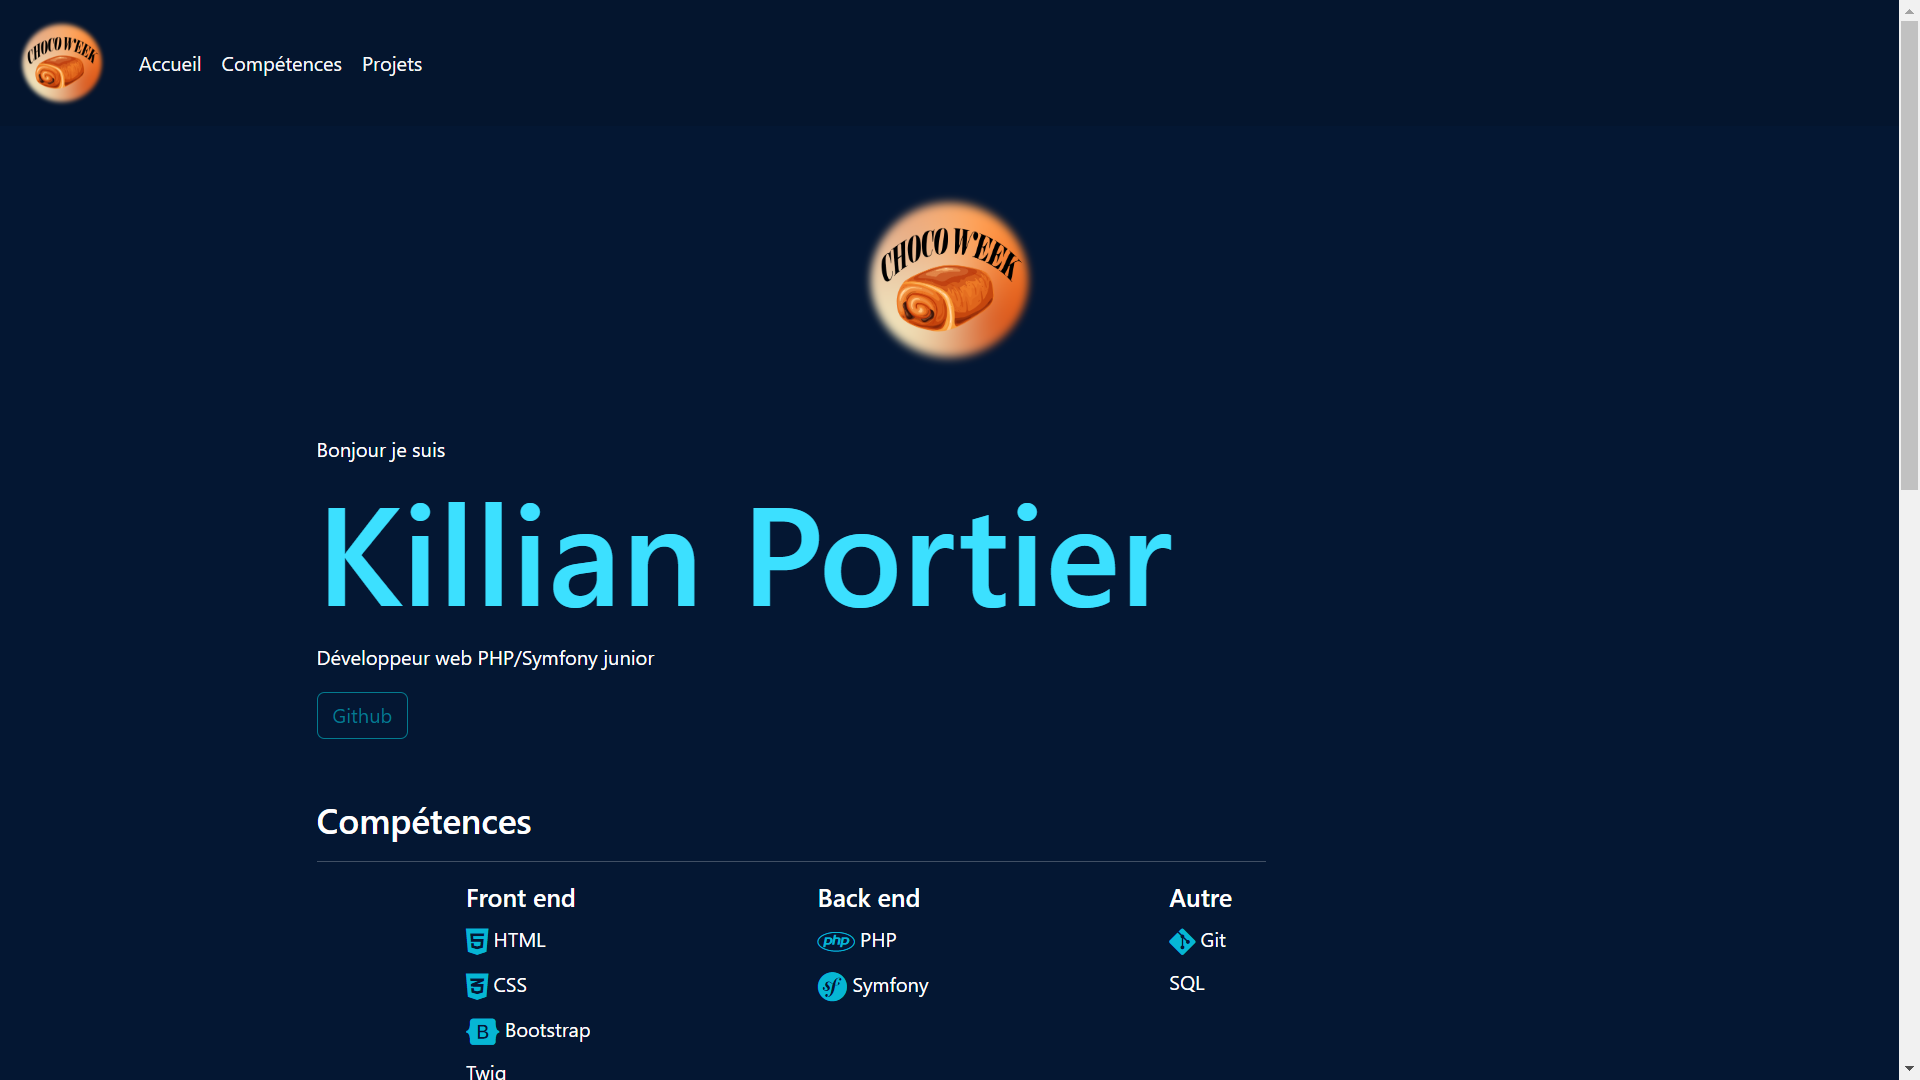
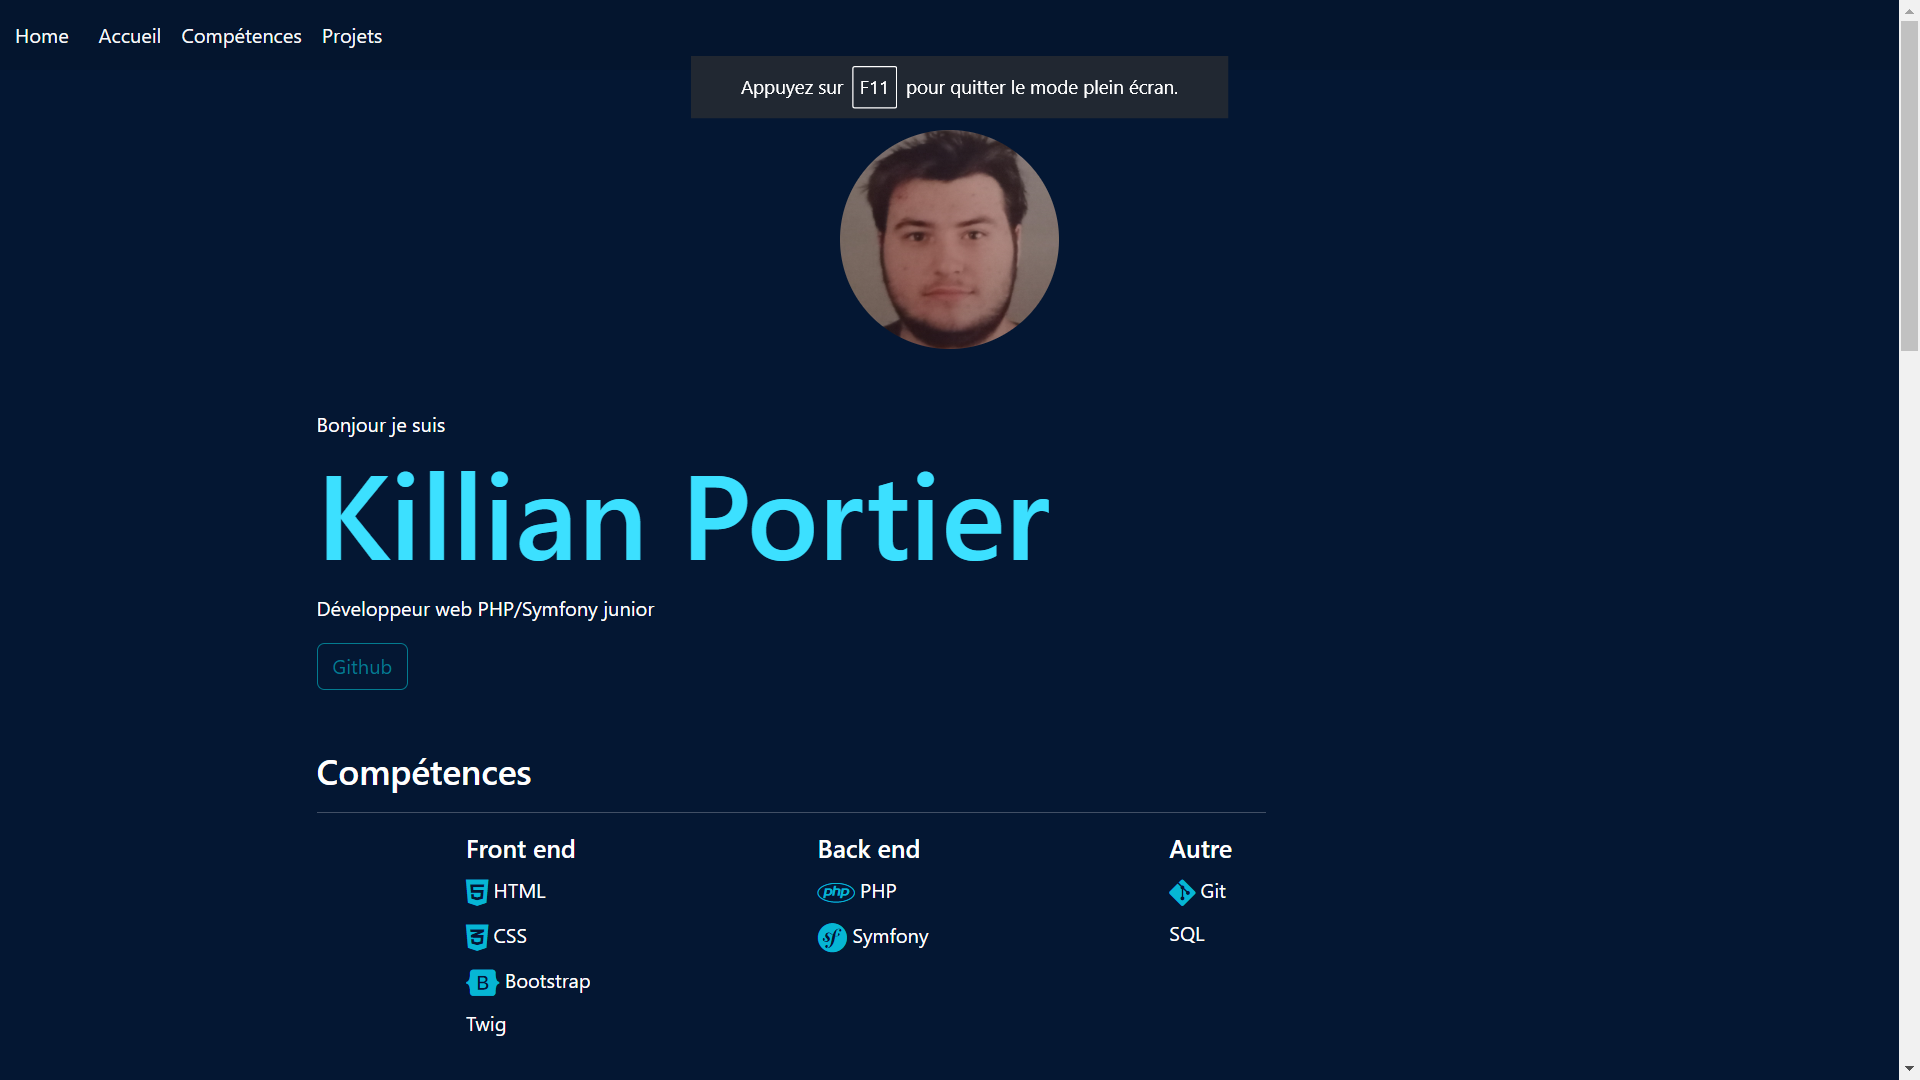
add a footer and add my qsa project

diff --git a/index.html b/index.html
@@ -13,6 +13,7 @@
             crossorigin="anonymous"></script>
     <script src="https://kit.fontawesome.com/61fed8f126.js" crossorigin="anonymous"></script>
     <link rel="stylesheet" href="asset/styles/styles.css">
+    <link rel="shortcut icon" href="asset/images/me.jpg" type="image/x-icon">
 </head>
 <body>
 <header class="header-container text-secondary">
@@ -30,7 +31,7 @@
             <div class="collapse navbar-collapse " id="navbarSupportedContent">
                 <ul class="navbar-nav me-auto mb-2 mb-lg-0">
                     <li class="nav-item">
-                        <a class="nav-link active text-light" aria-current="page" href="#">Accueil</a>
+                        <a class="nav-link active text-light" aria-current="page" href="/">Accueil</a>
                     </li>
                     <li class="nav-item">
                         <a href="#competences" class="nav-link text-light">Compétences</a>
@@ -107,7 +108,7 @@
     <div class="mt-5" id="projects">
         <h3>Projets</h3>
         <hr class="w-75 border-light">
-        <div class="d-flex projects">
+        <div class="d-flex projects col-12">
             <div class="col-11 mx-auto box-for-project rounded col-lg-5">
                 <div class="d-flex justify-content-between mt-2 align-items-center">
                     <!--                <i class="fa-solid fa-folder ms-1"></i>-->
@@ -180,8 +181,34 @@
                 <p>Application web de gestion de prises de décisions dans une entreprise.</p>
                 <i class="techno ms-2">Symfony / JS / Bootstrap</i><br>
             </div>
+            <div class="col-11 mx-auto box-for-project rounded mt-3 col-lg-5">
+                <div class="d-flex justify-content-between mt-2 align-items-center">
+                    <a href="https://github.com/Killrian47/QSAProjectV3"><i
+                            class="fa-brands fa-github me-1"></i></a>
+                    <!--                <i class="fa-solid fa-globe"></i>-->
+                </div>
+                <h5 class="text-center py-2 border-bottom">Projet site web pour QSA Conseil</h5>
+                <img src="asset/images/qsa-project.png" alt="preview QSA Conseil project" class="preview-project">
+                <p>Application web pour simplifier l'envoi et la réception d'échantillons pour le laboratoire.</p>
+                <i class="techno ms-2">Symfony / JS / Bootstrap</i><br>
+            </div>
         </div>
     </div>
 </main>
+<footer class="footer p-5 mt-5">
+    <div class="d-flex justify-content-between">
+        <div>
+            <p class="">Mes contacts :    
+                <a class="me-2" target="_blank" href="https://www.linkedin.com/in/killian-portier-784885224/"><i class="fa-brands fa-linkedin text-white "></i></a>
+                <a class="me-2" target="_blank" href="https://github.com/Killrian47"><i class="fa-brands fa-github text-white"></i></a>
+                <a class="me-2" href="mailto:portier.killian@yahoo.com"><i class="fa-solid fa-envelope text-white"></i></a>
+                <a class="me-2 tel-link" href="tel:0695357408">06.95.35.74.08</a>
+            </p>
+        </div>
+        <div>
+            <p>© 2023 Killian PORTIER</p>
+        </div>
+    </div>
+</footer>
 </body>
 </html>

diff --git a/asset/styles/styles.css b/asset/styles/styles.css
@@ -85,3 +85,12 @@ i {
         /*width: 335px;*/
     }
 }
+
+.link-for-web-extern:hover {
+    color: #02CF4B !important;
+}
+
+.tel-link {
+    text-decoration: none;
+    color: white;
+}
